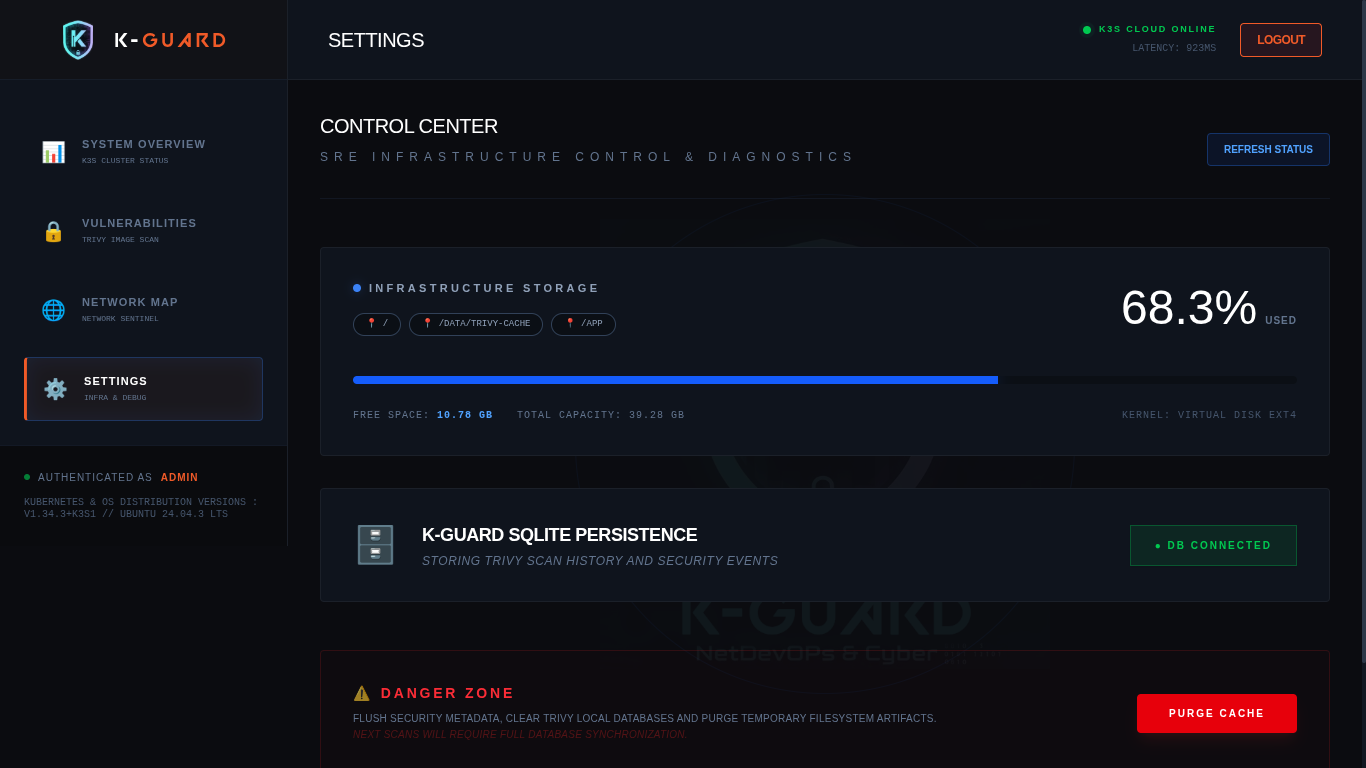
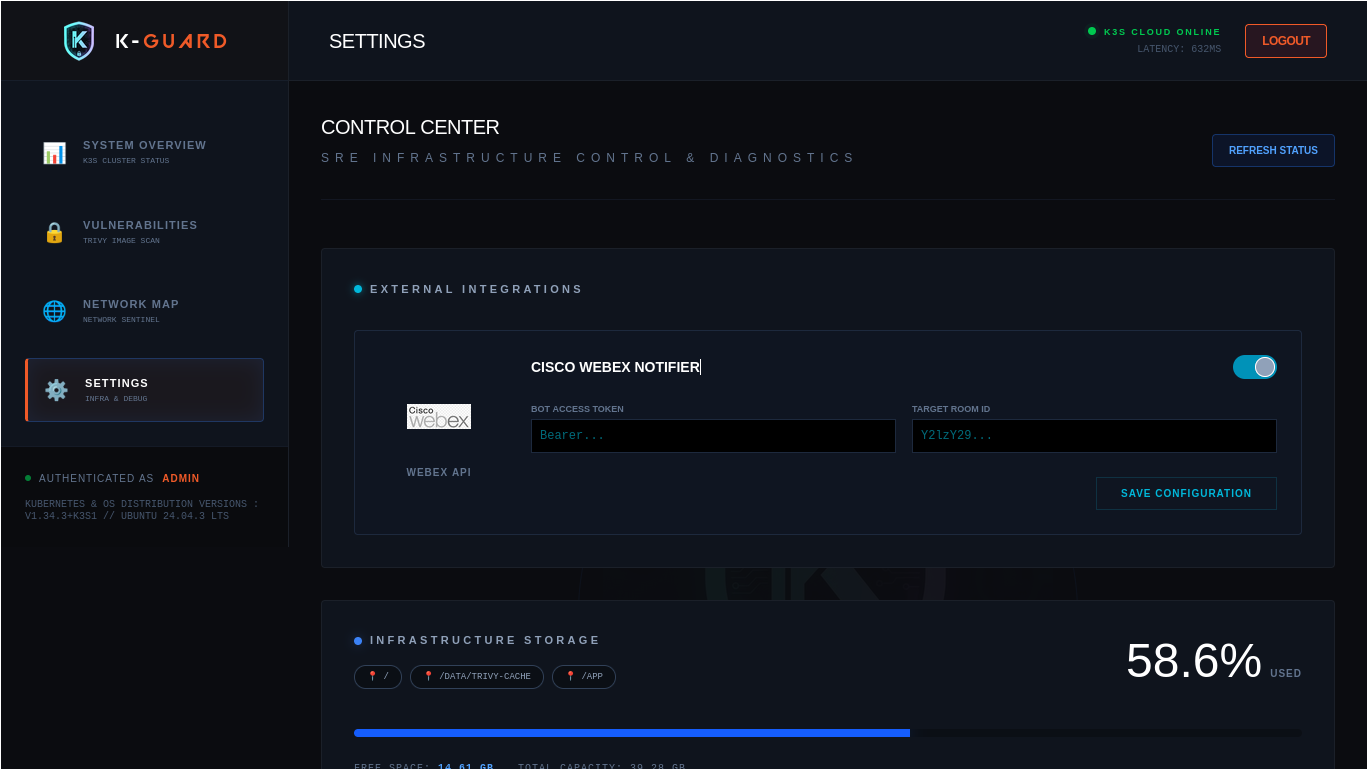
Enhanced README files with new screenshots

diff --git a/README.md b/README.md
@@ -2,7 +2,7 @@
 
 # 🛡️ <a name="french"></a>K-Guard: DevSecOps & SRE Orchestrator
 
-**K-Guard** est une plateforme de gouvernance de sécurité et d'observabilité pour clusters K3s. Il automatise le cycle complet de la sécurité : Audit (**Trivy**), Remédiation réseau (**Network Sentinel/Ansible**) et Alerte ChatOps (**Cisco Webex**).
+**K-Guard** est une plateforme de gouvernance de sécurité et d'observabilité pour clusters K3s. Il automatise le cycle complet de la sécurité : Audit (**Trivy**), Remédiation réseau (**Network Sentinel/Ansible**) et Alerte ChatOps (**Cisco Webex**)
 
 ---
 
@@ -34,13 +34,32 @@
 ## 🚀 <a name="-key-features"></a>Key Features
 
 * **Trivy Security Engine**: Scans container images for vulnerabilities directly from the UI.
+
+![K-Guard System Overview](screenshots/kguard-3.png)
+
+![K-Guard System Overview](screenshots/kguard-4.png)
+
 * **Network Sentinel**: Implements idempotent Zero-Trust NetworkPolicies via Ansible playbooks.
+
+![K-Guard System Overview](screenshots/kguard-5.png)
+
 * **Cisco Webex ChatOps**: Real-time incident alerting with persistent integration settings in SQLite.
+
+![K-Guard System Overview](screenshots/kguard-10.png)
+
+![K-Guard System Overview](screenshots/kguard-12.png)
+
 * **SRE Control Center**: Live monitoring of cluster latency, storage diagnostics, and pod health.
+
+![K-Guard System Overview](screenshots/kguard-1.png)
+
+![K-Guard System Overview](screenshots/kguard-2.png)
 
 ---
 
 ## 🛠️ <a name="-installation--setup"></a>Installation & Setup
+
+![K-Guard System Overview](/screenshots/install.png)
 
 ### <a name="1-cli-installer-go"></a>1. CLI Installer (Go)
 Déploiement de la stack complète via un installateur spécialisé en **Go** :
@@ -82,20 +101,24 @@ chmod +x kguard-installer
 ## 🛰️ <a name="-cisco-webex-integration"></a>Cisco Webex Integration
 
 Transformez vos audits de sécurité techniques en alertes opérationnelles en temps réel :
+
 1.  **Enable**: Activez le notificateur Webex directement depuis le panneau **Settings**.
 2.  **Configure**: Renseignez votre `Bot Access Token` et votre `Target Room ID`.
 3.  **Validate**: Les paramètres sont persistés dans la base SQLite `kguard.db` uniquement après un test de connectivité réussi.
+
+![K-Guard System Overview](screenshots/kguard-9.png)
 
 ---
 
 ## 🛡️ <a name="-network-policy--network-sentinel"></a>Network Policy ( Network Sentinel )
 
 K-Guard applique une posture de sécurité Zero-Trust via des playbooks Ansible idempotents :
-* **Default Deny**: Isolation globale entrante et sortante pour tous les namespaces protégés (`k-guard`, `blog-prod`, `portfolio-prod`, etc.).
+
+* **Default Deny**: Isolation globale entrante et sortante pour tous les namespaces protégés (exemples ici à remplacer par vos namespaces : `k-guard`, `blog-prod`, `portfolio-prod`, etc.).
 * **Selective Egress**: Flux sortants autorisés uniquement vers les APIs critiques (Webex, Google Indexing, MongoDB Atlas) sur le port 443.
 * **Visual Topology**: Cartographie dynamique du trafic et identification visuelle des nœuds vulnérables dans le cluster.
 
-
+![K-Guard System Overview](screenshots/kguard-6.png)
 
 ---
 
@@ -148,13 +171,32 @@ K-Guard applique une posture de sécurité Zero-Trust via des playbooks Ansible 
 ## 🚀 <a name="en-key-features"></a>Key Features
 
 * **Trivy Security Engine**: Scans container images for vulnerabilities directly from the UI.
+
+![K-Guard System Overview](screenshots/kguard-3.png)
+
+![K-Guard System Overview](screenshots/kguard-4.png)
+
 * **Network Sentinel**: Implements idempotent Zero-Trust NetworkPolicies via Ansible playbooks.
+
+![K-Guard System Overview](screenshots/kguard-5.png)
+
 * **Cisco Webex ChatOps**: Real-time incident alerting with persistent integration settings in SQLite.
+
+![K-Guard System Overview](screenshots/kguard-10.png)
+
+![K-Guard System Overview](screenshots/kguard-12.png)
+
 * **SRE Control Center**: Live monitoring of cluster latency, storage diagnostics, and pod health.
+
+![K-Guard System Overview](screenshots/kguard-1.png)
+
+![K-Guard System Overview](screenshots/kguard-2.png)
 
 ---
 
 ## 🛠️ <a name="en-installation--setup"></a>Installation & Setup
+
+![K-Guard System Overview](/screenshots/install.png)
 
 ### <a name="en-1-cli-installer-go"></a>1. CLI Installer (Go)
 Full stack deployment via a specialized **Go** installer:
@@ -200,6 +242,8 @@ Transform technical security audits into real-time operational alerts :
 2.  **Configure**: Enter your `Bot Access Token` and your `Target Room ID`.
 3.  **Validate**: Settings are persisted in the `kguard.db` SQLite database only after a successful connectivity test.
 
+![K-Guard System Overview](screenshots/kguard-9.png)
+
 ---
 
 ## 🛡️ <a name="en-network-policy--network-sentinel"></a>Network Policy ( Network Sentinel )
@@ -209,7 +253,7 @@ K-Guard enforces a Zero-Trust security posture via idempotent Ansible playbooks 
 * **Selective Egress**: Authorized outgoing traffic only to critical APIs (Webex, Google Indexing, MongoDB Atlas) on port 443.
 * **Visual Topology**: Dynamic traffic mapping and visual identification of vulnerable nodes within the cluster.
 
-
+![K-Guard System Overview](screenshots/kguard-6.png)
 
 ---
 